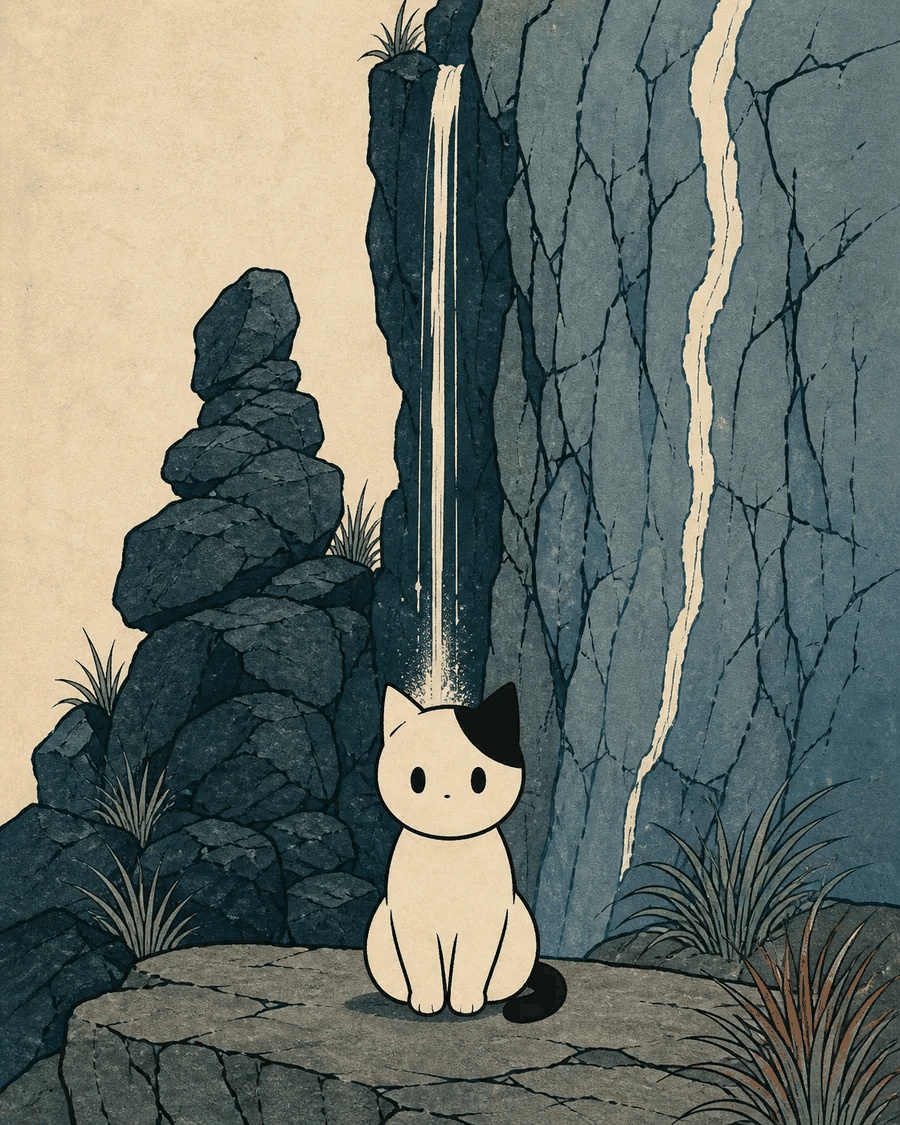
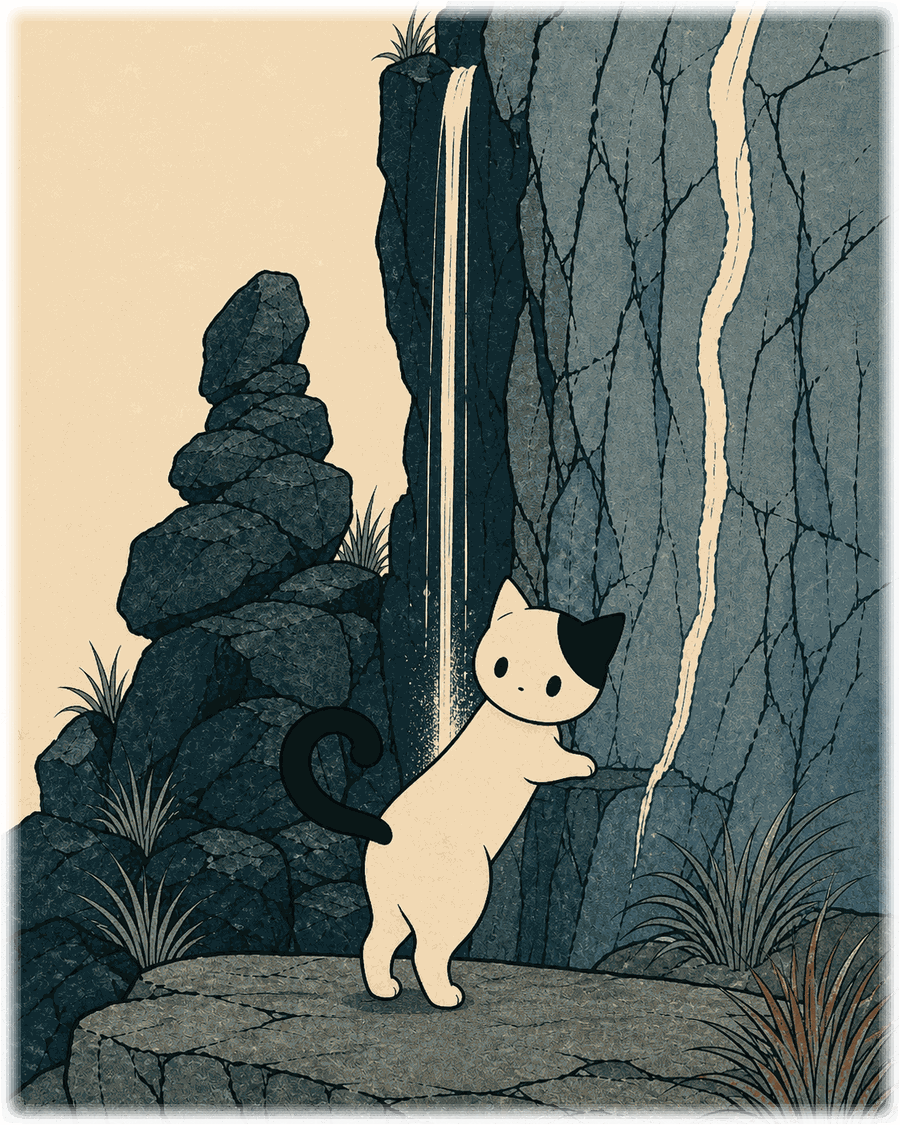
냥도사 v2.5: 일간 고양이 열 마리 열 가지 포즈 · 오행 5종 알파 컷아웃 재작화
- scene-* 10종: 배경·화풍은 그대로 두고 고양이 자세만 다시 그림
  (기지개 · 꽃잎 잡기 · 깡충 점프 · 촛불 응시 · 능선 걷기
   · 배추밭 식빵 · 절벽 짚고 서기 · 보석 감싸 쥐기 · 파도 넘기 · 안개 뒤돌아보기)
- cat-*-ink 5종: 같은 결로 재작화하고 전부 알파 컷아웃(metal 크림 배경 → 알파)
- 장면은 900x1125 4:5 유지 · 가장자리 3% 알파 페더 · PNG는 팔레트 256색
- README 0-F 절에 무엇이 문제였는지(실제 화면은 scene-*)와 검증 결과 기록
- 회귀 122/122 · check-engine/layout/funnel/orbit/type 전부 OK

diff --git a/README.md b/README.md
@@ -82,6 +82,43 @@ node tests/ai-compare/run.mjs --mode score --in out/<runId>
 
 ---
 
+## 0-F. v2.5 (2026-11-26) — 일간 고양이 열 마리, 열 가지 포즈
+
+> 사용자 지적: "이거 왜 고양이가 다 정자세야? 내가 원하는건 다양한 포즈의 고양이야 지금은 뭔가 재미가없어"
+
+### 1. 무엇이 문제였나
+
+- 실제 화면이 쓰는 그림은 `public/cat-*-ink` 5장이 아니라 **`public/scene-<일간>.webp` 10장**이었습니다(무료 히어로 `#cat-art`, 유료 `#result-cat` 모두 `sceneSrc(art)`). 그런데 열 장이 배경만 다르고 고양이는 **모두 같은 정면 정자세**였습니다. `cat-*-ink` 5장은 `index.html` 의 초기 `src` 자리표시자로만 남아 있었습니다.
+
+### 2. 바뀐 것 — 자세만 다시 그렸다
+
+배경(큰 나무·매화·태양·등불·큰 산·밭·바위·보석함·파도·안갯길)과 화풍(화투×민화 목판 펜선·콩눈·흰 바탕에 검정 점박이·검정 꼬리)은 그대로 두고, 고양이 자세만 `images --edit` 로 다시 그려 넣었습니다.
+
+| 일간 | 캐릭터 | 새 포즈 |
+|---|---|---|
+| 甲木 `jia-tree` | 대장냥 | 소나무 줄기에 앞발을 짚고 온몸으로 기지개 |
+| 乙木 `yi-flower` | 눈치냥 | 뒷발로 서서 매화꽃잎·나비 쪽으로 두 앞발 뻗기 |
+| 丙火 `bing-sun` | 태양냥 | 붉은 해 앞에서 학 쪽으로 두 앞발 들고 깡충 점프 |
+| 丁火 `ding-candle` | 촛불냥 | 등불 옆에 배 깔고 엎드려 촛불 응시 |
+| 戊土 `wu-mountain` | 태산냥 | 능선 바위 위를 옆태로 걷기(꼬리 세움) |
+| 己土 `ji-field` | 정원냥 | 배추 이랑에 식빵 굽고 고개 갸웃 |
+| 庚金 `geng-rock` | 칼날냥 | 절벽에 앞발 짚고 서서 고개 돌리기 |
+| 辛金 `xin-gem` | 보석냥 | 보석을 두 앞발로 감싸 쥐기 |
+| 壬水 `ren-sea` | 바다냥 | 부서지는 파도 앞을 폴짝 뛰어넘기 |
+| 癸水 `gui-mist` | 안개냥 | 안개비 속을 걷다 뒤돌아보기 |
+
+- **오행 5장**(`cat-*-ink`)도 같은 결로 다시 그려 알파 PNG+webp 로 교체했습니다. `cat-metal-ink` 만 불투명 크림 배경이었는데 다른 네 장과 같이 알파로 맞췄습니다.
+- **장면 10장**은 기존과 같은 `900×1125(4:5)` 에 RGBA 로 저장하고, 네 가장자리 3%에 알파 페더를 넣었습니다. 앱의 `mask-image`·공유 카드의 `featheredArt()` 와 겹쳐도 이음매가 생기지 않습니다.
+- 배경·구도는 건드리지 않았으므로 `DAY_ART`·`sceneSrc()`·`index.html`·`styles.css` 코드는 그대로입니다(자산만 교체).
+
+### 3. 검증 (2026-11-26)
+
+- 엔진·판정 회귀 `node tests/run-regression.mjs` → **122/122 통과**
+- `tools/check-engine.py` · `check-layout.py`(360/390/430 최소 여백 22.3px · 겹침 0 · 스크롤X 0) · `check-funnel.py` · `check-orbit.py` · `check-type.py` → **전부 OK**
+- 390×844 모바일 뷰포트에서 일간 10종 무료 결과 히어로를 캡처해 열 장의 포즈가 서로 겹치지 않고 한지 위에 프레임 없이 얹히는 것을 확인했습니다.
+
+---
+
 ## 0-E. v2.4.1 (2026-11-25) — 일러스트 액자 제거 · 살아 있는 장면
 
 > 사용자 지적: "일러스트를 이렇게 칸안에 정적으로 배치한다고? … 카드 프레임을 쓰지말구 움직임 있게 역동적으로 해줘"
@@ -647,11 +684,11 @@ apps/nyang-saju/
 │   └── manseryeok.LICENSE  # MIT
 ├── public/
 │   ├── cat-hero-hwatu.png / cat-hero-ink.png|.webp   # 랜딩·로딩
-│   ├── cat-wood-ink.png|.webp                         # 木 — 소나무·매화 아래
-│   ├── cat-fire-ink.png|.webp                         # 火 — 붉은 해 아래
-│   ├── cat-earth-ink.png|.webp                        # 土 — 둥근 산·황토 밭
-│   ├── cat-metal-ink.png|.webp                        # 金 — 바위·초승달
-│   └── cat-water-ink.png|.webp                        # 水 — 빗줄기·웅덩이
+│   ├── cat-wood-ink.png|.webp                         # 木 — 매화꽃잎 잡으려 발 뻗기 (v2.5 알파 컷아웃)
+│   ├── cat-fire-ink.png|.webp                         # 火 — 두 앞발 들고 깡충 점프 (v2.5)
+│   ├── cat-earth-ink.png|.webp                        # 土 — 논밭에 배 깔고 엎드리기 (v2.5)
+│   ├── cat-metal-ink.png|.webp                        # 金 — 옆태로 앉아 초승달 올려다보기 (v2.5)
+│   └── cat-water-ink.png|.webp                        # 水 — 물웅덩이 뛰어넘기 (v2.5)
 ├── legacy/                 # 이전 시안 고양이 원본 보관
 ├── hwatu-concept-1/2.png   # 확정 시안
 ├── compare-hwatu-landing.png / style1-indie.png / style2-receipt.png  # 이전 시안·비교용
